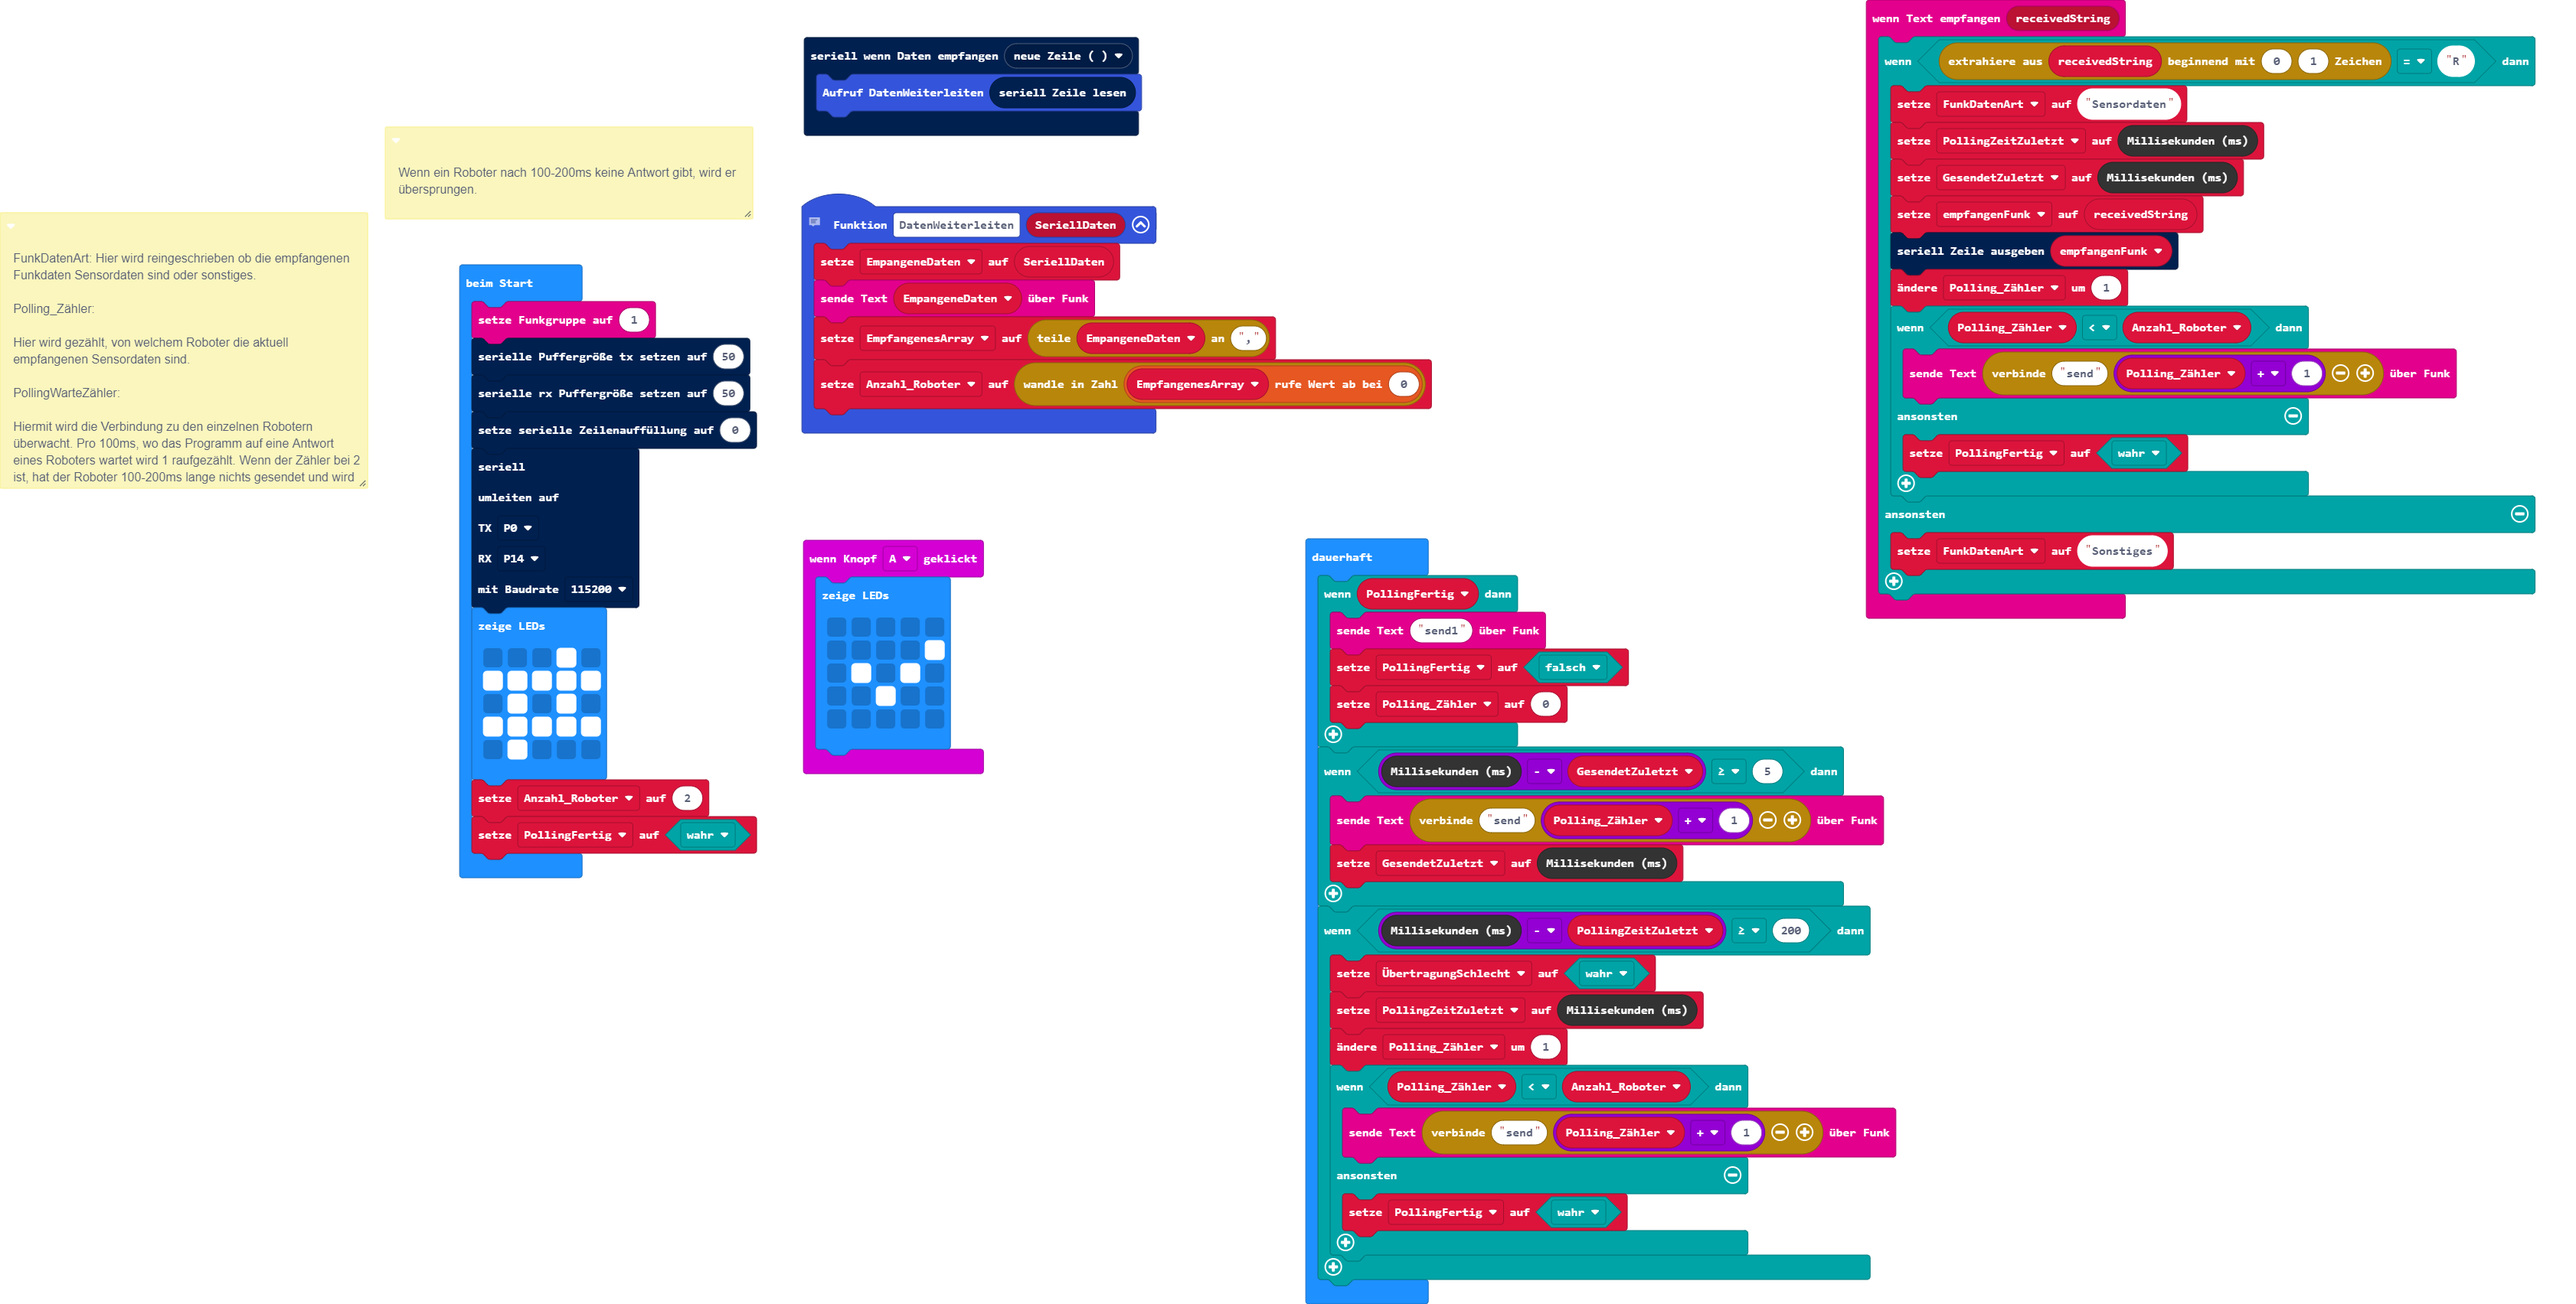
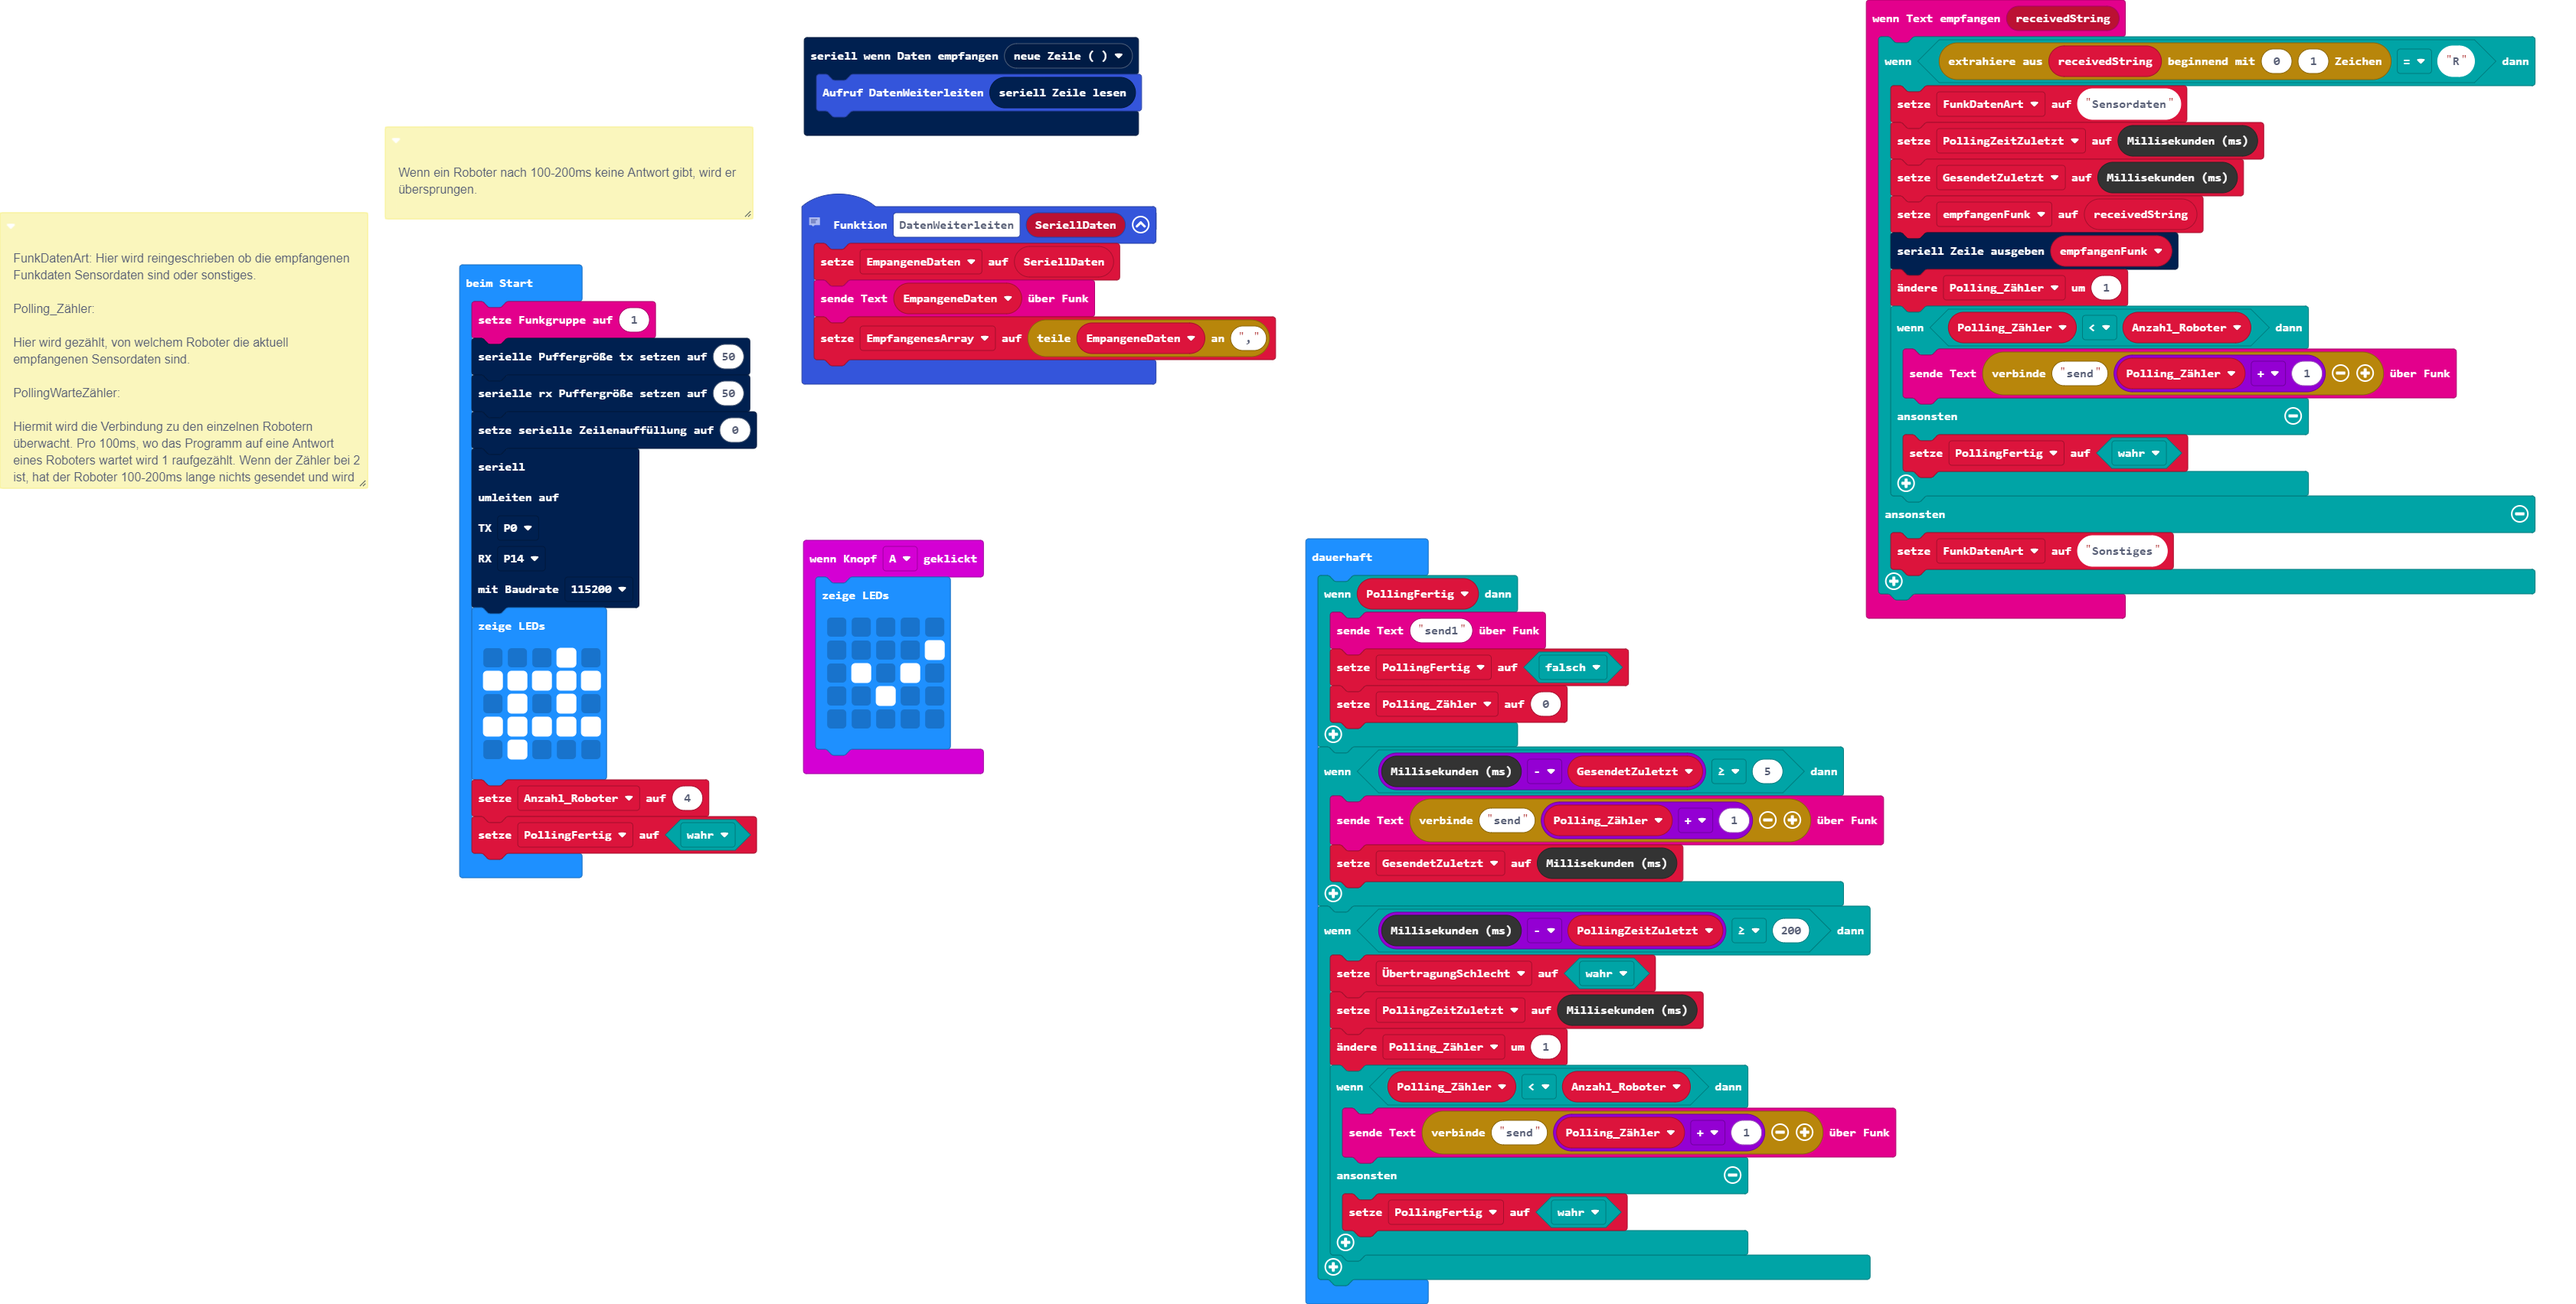
Aktualisiere pxt.json, main.blocks, main.ts

Changed region(s): [[0.3121, 0.2488, 0.5618, 0.3421]]

diff --git a/main.ts b/main.ts
@@ -19,7 +19,6 @@ function DatenWeiterleiten (SeriellDaten: string) {
     EmpangeneDaten = SeriellDaten
     radio.sendString(EmpangeneDaten)
     EmpfangenesArray = EmpangeneDaten.split(",")
-    Anzahl_Roboter = parseFloat(EmpfangenesArray[0])
 }
 input.onButtonPressed(Button.A, function () {
     basic.showLeds(`
@@ -76,7 +75,7 @@ basic.showLeds(`
     # # # # #
     . # . . .
     `)
-Anzahl_Roboter = 2
+Anzahl_Roboter = 4
 PollingFertig = true
 basic.forever(function () {
     if (PollingFertig) {
